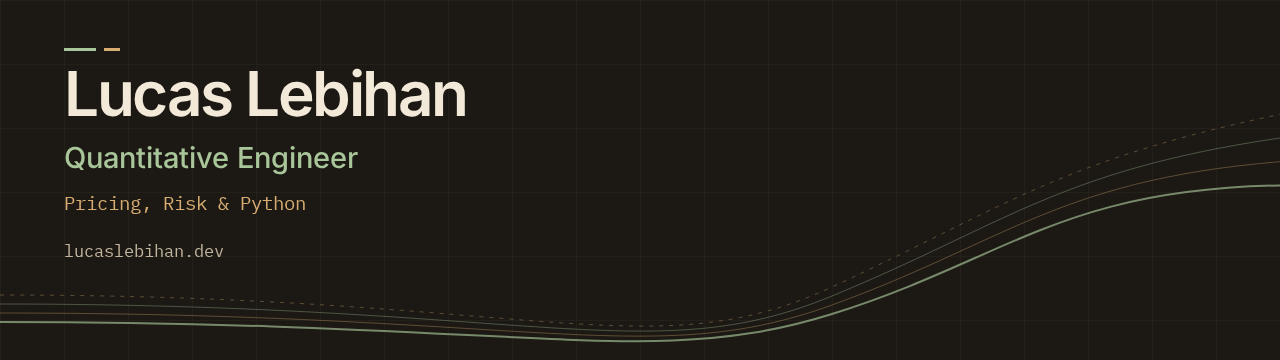
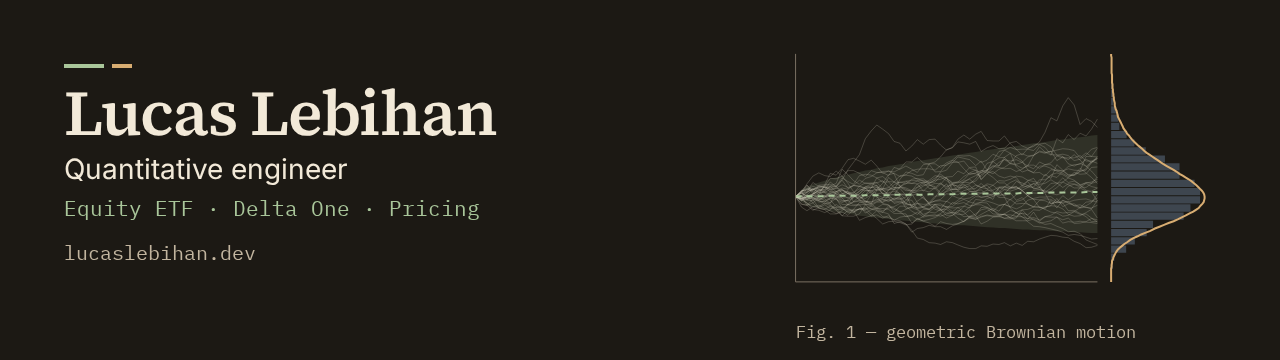
Use the single tagline, link the live demos and refresh the artwork
The profile states "Quantitative Engineer · Equity ETF · Delta One · Pricing", as the portfolio,
the résumé and LinkedIn do; the header images are the current exports of webfolio's brand/. Each
project links its live lab or demo, and DeltaCore's validation is described as implied-volatility
diagnostics rather than calibration.

diff --git a/README.md b/README.md
@@ -1,12 +1,12 @@
 <picture>
   <source media="(prefers-color-scheme: dark)" srcset="assets/profile-dark.png">
   <source media="(prefers-color-scheme: light)" srcset="assets/profile-light.png">
-  <img alt="Lucas Lebihan — Quantitative Engineer. Pricing, Risk &amp; Python." src="assets/profile-light.png">
+  <img alt="Lucas Lebihan — Quantitative Engineer. Equity ETF · Delta One · Pricing. Beside it, a simulated geometric Brownian motion with its terminal histogram and lognormal density." src="assets/profile-light.png">
 </picture>
 
 # Lucas Lebihan
 
-**Quantitative Engineer · Pricing, Risk & Python**
+**Quantitative Engineer · Equity ETF · Delta One · Pricing**
 
 I build software for quantitative finance: numerical models, Python APIs,
 market-data pipelines and interactive tools. My projects connect financial
@@ -19,18 +19,19 @@ concepts with the engineering needed to test, explain and operate them.
 
 ## Selected projects
 
-| Project | What it does | Engineering focus |
-| --- | --- | --- |
-| [Option Model Lab](https://github.com/HtFilia/option-model-lab) | Interactive exploration and calibration of option-pricing models | React/TypeScript, Python numerics, documented browser/API computation boundaries |
-| [DeltaCore](https://github.com/HtFilia/DeltaCore) | European option pricing, Greeks, implied volatility and risk analytics | Pure numerical kernels, typed FastAPI boundaries, reference and invariant tests |
-| [TickerFlow](https://github.com/HtFilia/tickerflow) | Local OHLCV ingestion, quality reports, Parquet storage and time bars | Explicit schemas, UTC time conventions, Polars/DuckDB and query APIs |
-| [TradeOps](https://github.com/HtFilia/tradeops) | Simulated market data and order execution with a React dashboard | Asynchronous Python services, Redis streams, PostgreSQL and integration tests |
-| [Dotfiles](https://github.com/HtFilia/dotfiles) | Reproducible workstation and Debian VPS environments | Bash/Chezmoi profiles, pinned downloads, recovery snapshots and cross-platform CI |
+| Project | What it does | Engineering focus | Live |
+| --- | --- | --- | --- |
+| [Option Model Lab](https://github.com/HtFilia/option-model-lab) | Interactive exploration and calibration of option-pricing models | React/TypeScript, Python numerics, documented browser/API computation boundaries | [Lab](https://pricing.lucaslebihan.dev/) |
+| [DeltaCore](https://github.com/HtFilia/DeltaCore) | European option pricing, Greeks, implied volatility and risk analytics | Pure numerical kernels, typed FastAPI boundaries, reference and invariant tests | [Demo](https://deltacore.lucaslebihan.dev/demo) |
+| [TickerFlow](https://github.com/HtFilia/tickerflow) | Local OHLCV ingestion, quality reports, Parquet storage and time bars | Explicit schemas, UTC time conventions, Polars/DuckDB and query APIs | [Demo](https://tickerflow.lucaslebihan.dev/demo) |
+| [TradeOps](https://github.com/HtFilia/tradeops) | Simulated market data and order execution with a React dashboard | Asynchronous Python services, Redis streams, PostgreSQL and integration tests | [Demo](https://tradeops.lucaslebihan.dev/) |
+| [Dotfiles](https://github.com/HtFilia/dotfiles) | Reproducible workstation and Debian VPS environments | Bash/Chezmoi profiles, pinned downloads, recovery snapshots and cross-platform CI | — |
 
 ## Where to start
 
 - **Quantitative development:** [DeltaCore's numerical validation](https://github.com/HtFilia/DeltaCore#numerical-validation)
-  covers pricing references, put-call parity, finite-difference Greeks and calibration.
+  covers pricing references, put-call parity, finite-difference Greeks and implied-volatility
+  diagnostics.
 - **Data engineering:** [TickerFlow's implemented workflow](https://github.com/HtFilia/tickerflow#current-vertical-slice)
   follows local CSV data through validation, storage and querying.
 - **Application architecture:** [Option Model Lab's computation boundaries](https://github.com/HtFilia/option-model-lab/blob/main/docs/COMPUTATION_BOUNDARIES.md)

diff --git a/ASSETS.md b/ASSETS.md
@@ -2,7 +2,8 @@
 
 The light and dark PNG headers in `assets/` are 1280 × 360 exports of the
 paper-and-sage professional identity: Lucas Lebihan, Quantitative Engineer,
-Pricing, Risk & Python. The README uses native GitHub colour-scheme selection,
+Equity ETF · Delta One · Pricing, beside the portfolio's Fig. 1 (a simulated
+geometric Brownian motion). The README uses native GitHub colour-scheme selection,
 with a light fallback and a descriptive text alternative.
 
 Editable SVG artwork, pinned fonts and the export script are maintained in the
@@ -17,7 +18,8 @@ If the authenticated CLI token lacks the `user` scope, use GitHub's profile UI:
 
 1. Open your GitHub profile and choose **Edit profile**.
 2. Set **Name** to `Lucas Lebihan`.
-3. Set **Bio** to `Quantitative Engineer · Pricing, Risk & Python. Building tools for quantitative finance and reliable market-data systems.`
+3. Set **Bio** to `Quantitative Engineer · Equity ETF · Delta One · Pricing`, the tagline shared
+   with the portfolio, the résumé and LinkedIn.
 4. Set **Website** to `https://lucaslebihan.dev/en/`.
 5. Save. Keep the current avatar and other personal settings.
 
